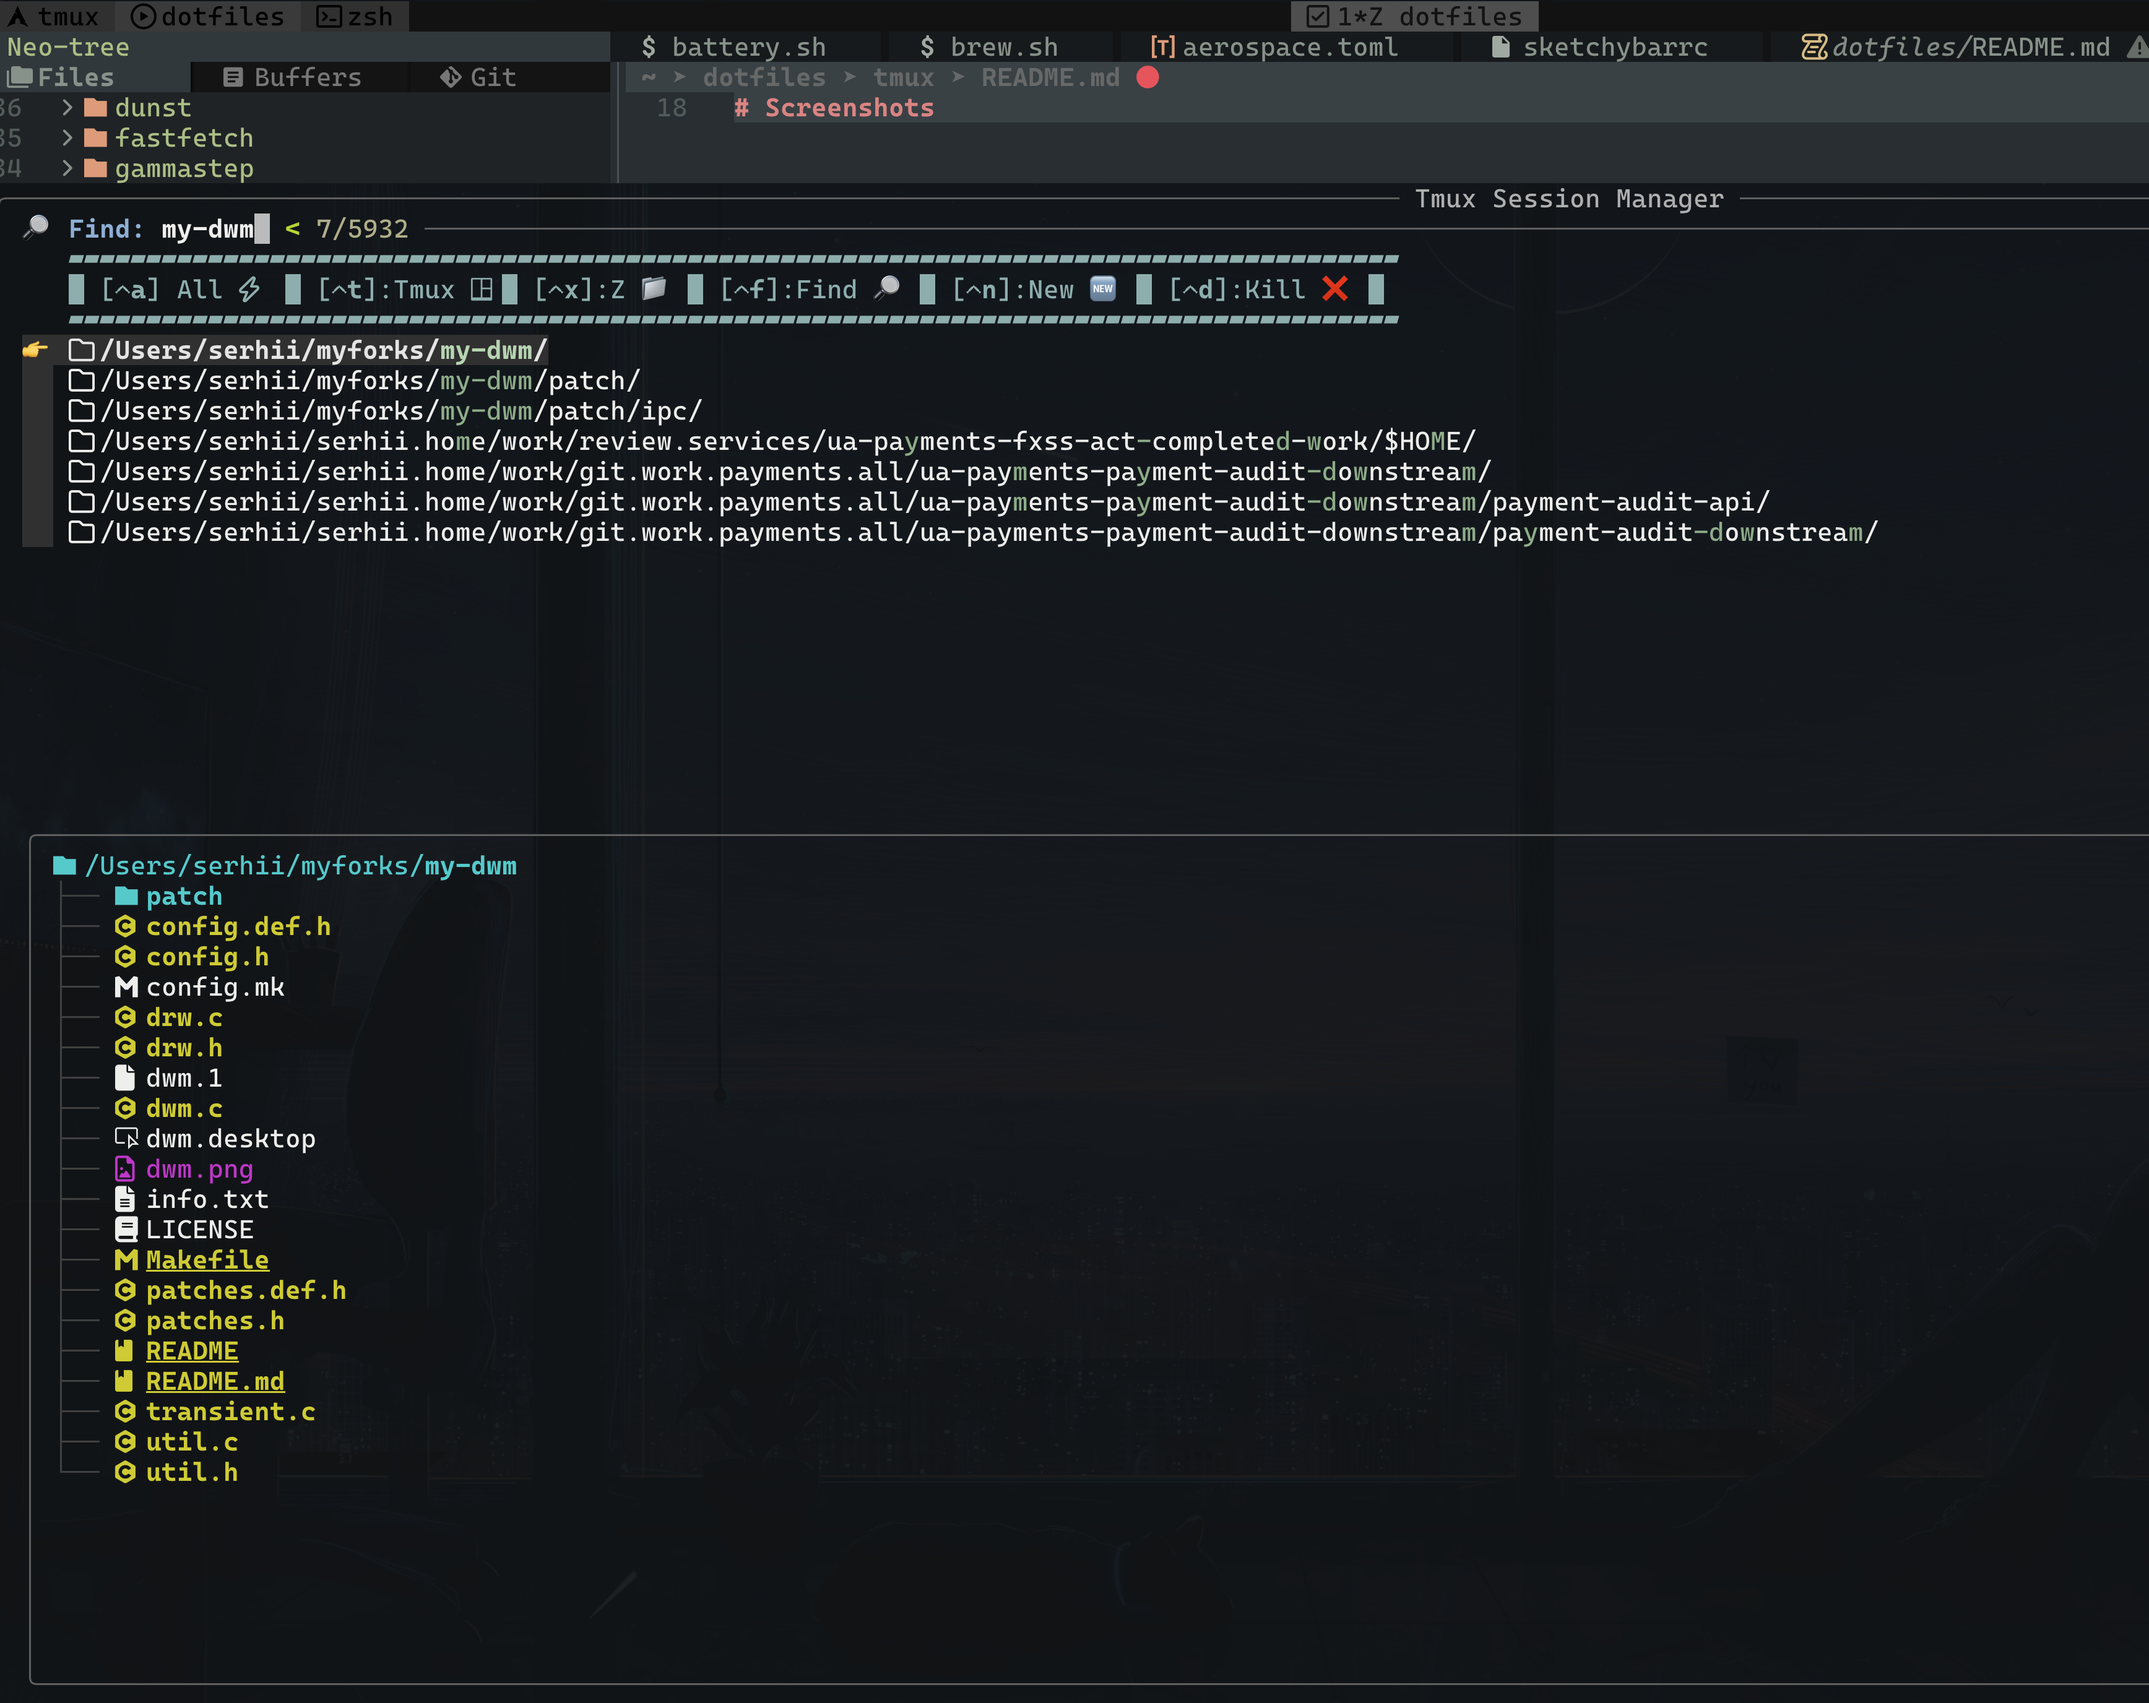
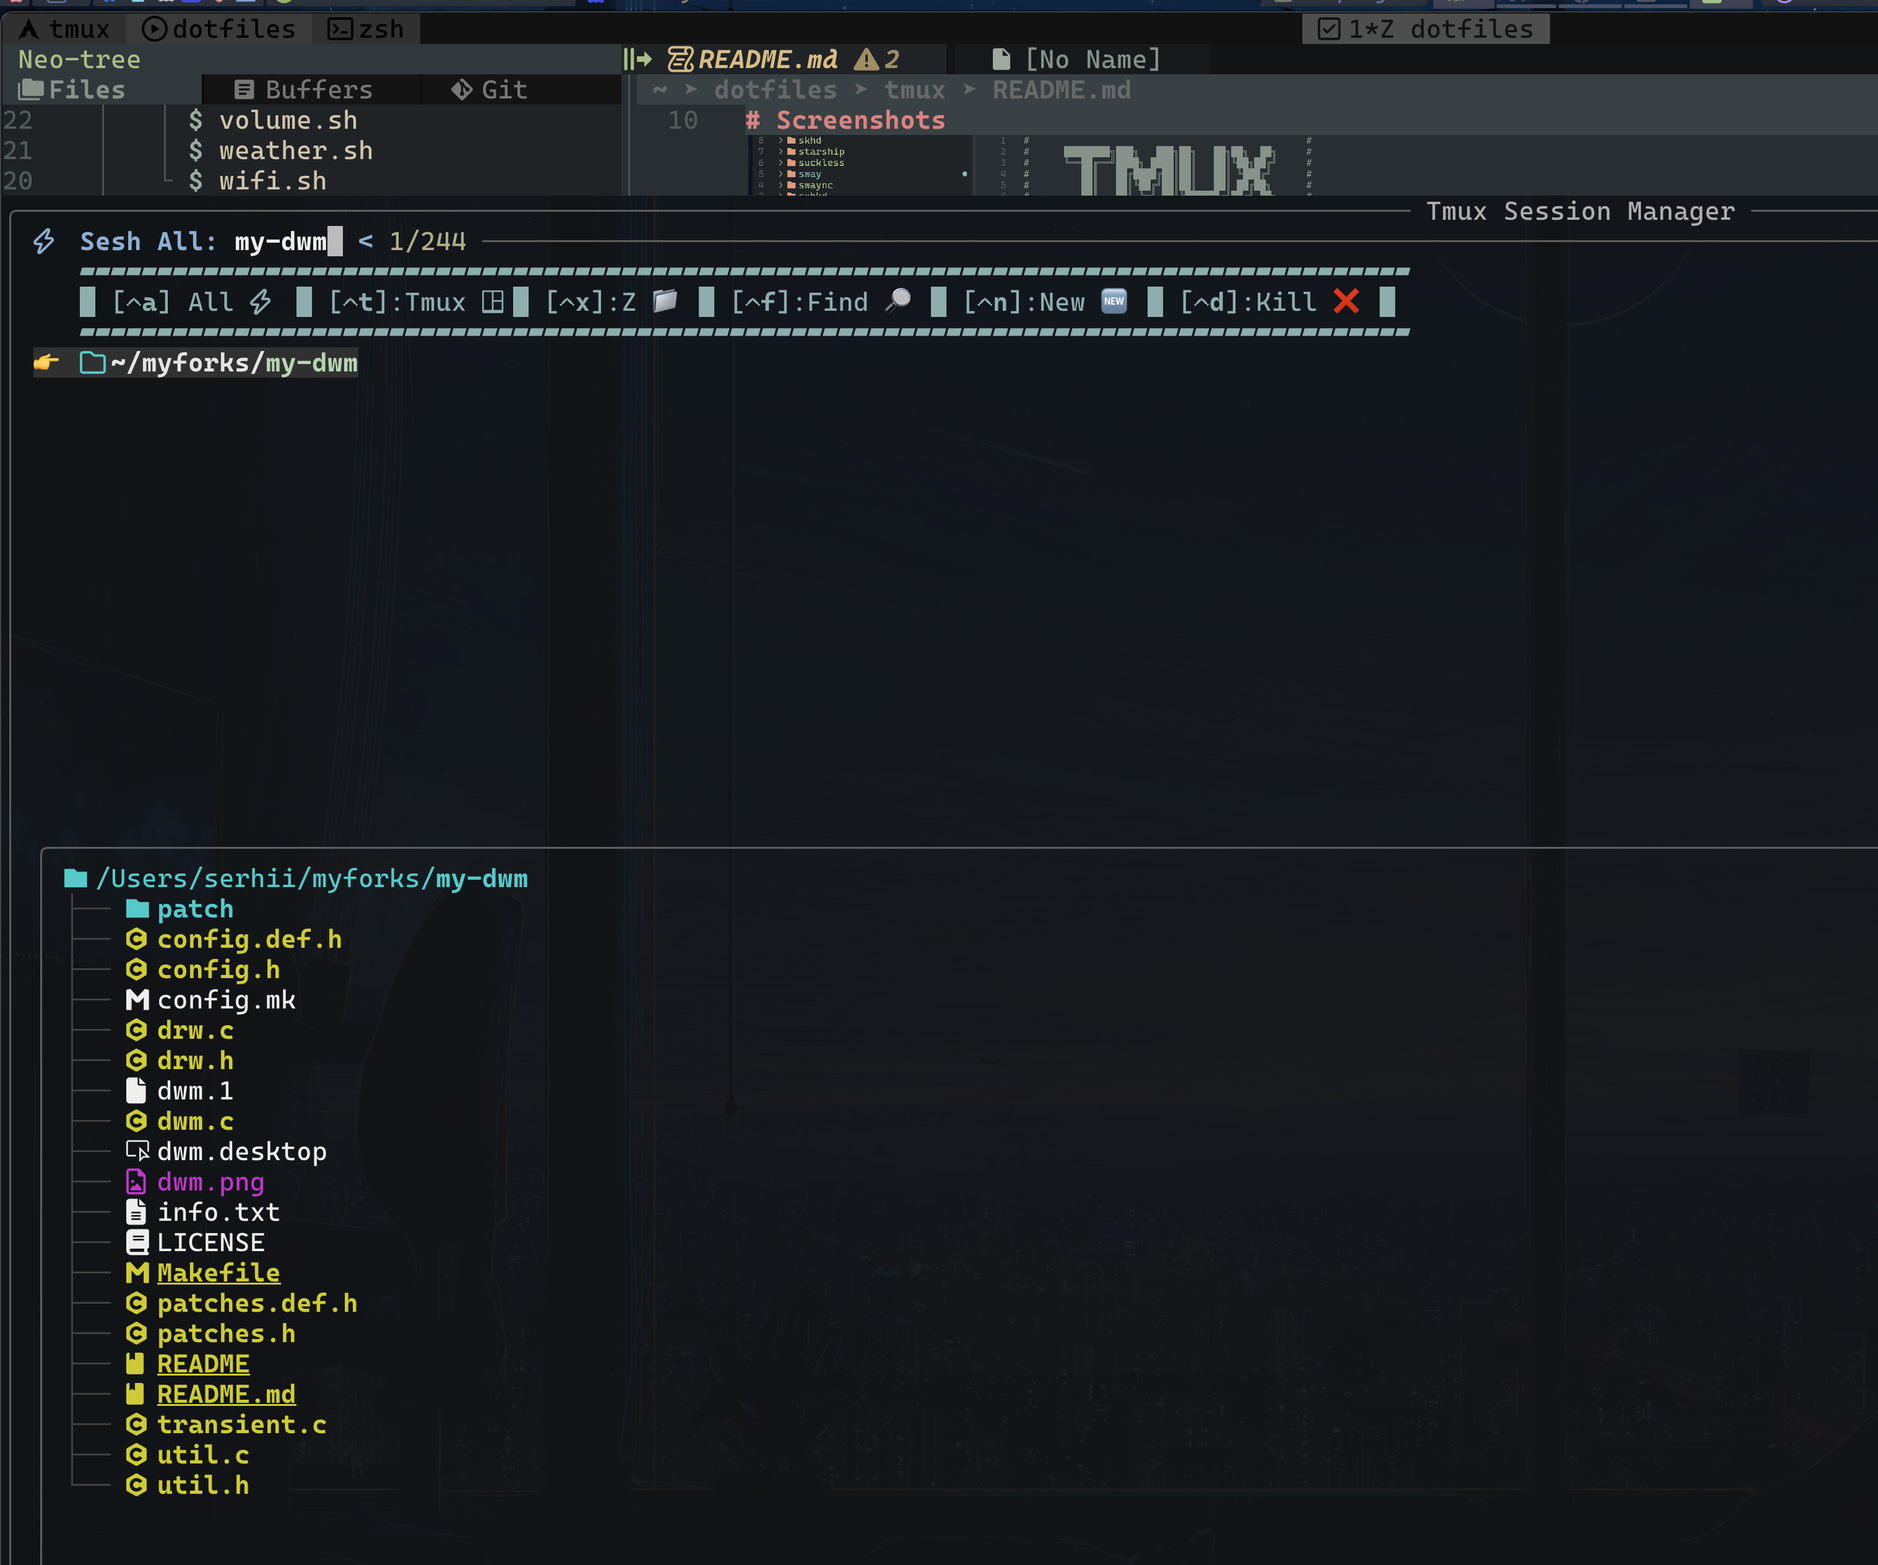
changes

Changed region(s): [[0.0, 0.0, 1.0, 0.3438], [0.0, 0.5, 0.2788, 1.0], [0.7436, 0.0938, 0.9295, 0.1562]]

diff --git a/tmux/README.md b/tmux/README.md
@@ -12,6 +12,16 @@
 
 ##### Custom session manager with session preview (based on `joshmedeski/sesh` and `sainnhe/tmux-fzf`)
 
+session manager have ability to:
+
+- search (with pewview) exists sessions
+- create new sessions from existing directory on system (with dir content preview), with ability to find by `fd`, `zoxide`
+- put custom session name (no such dir), and create this session
+- kill existing session
+- show in mixed mode (existing session, and dirs up that had session recently)
+
+###### Small demonstration
+
 - with exists session preview
 
 ![tmux-session-manager with files preview where session can be created etc](../screenshots/tmux/tmux-session-manager.png)
